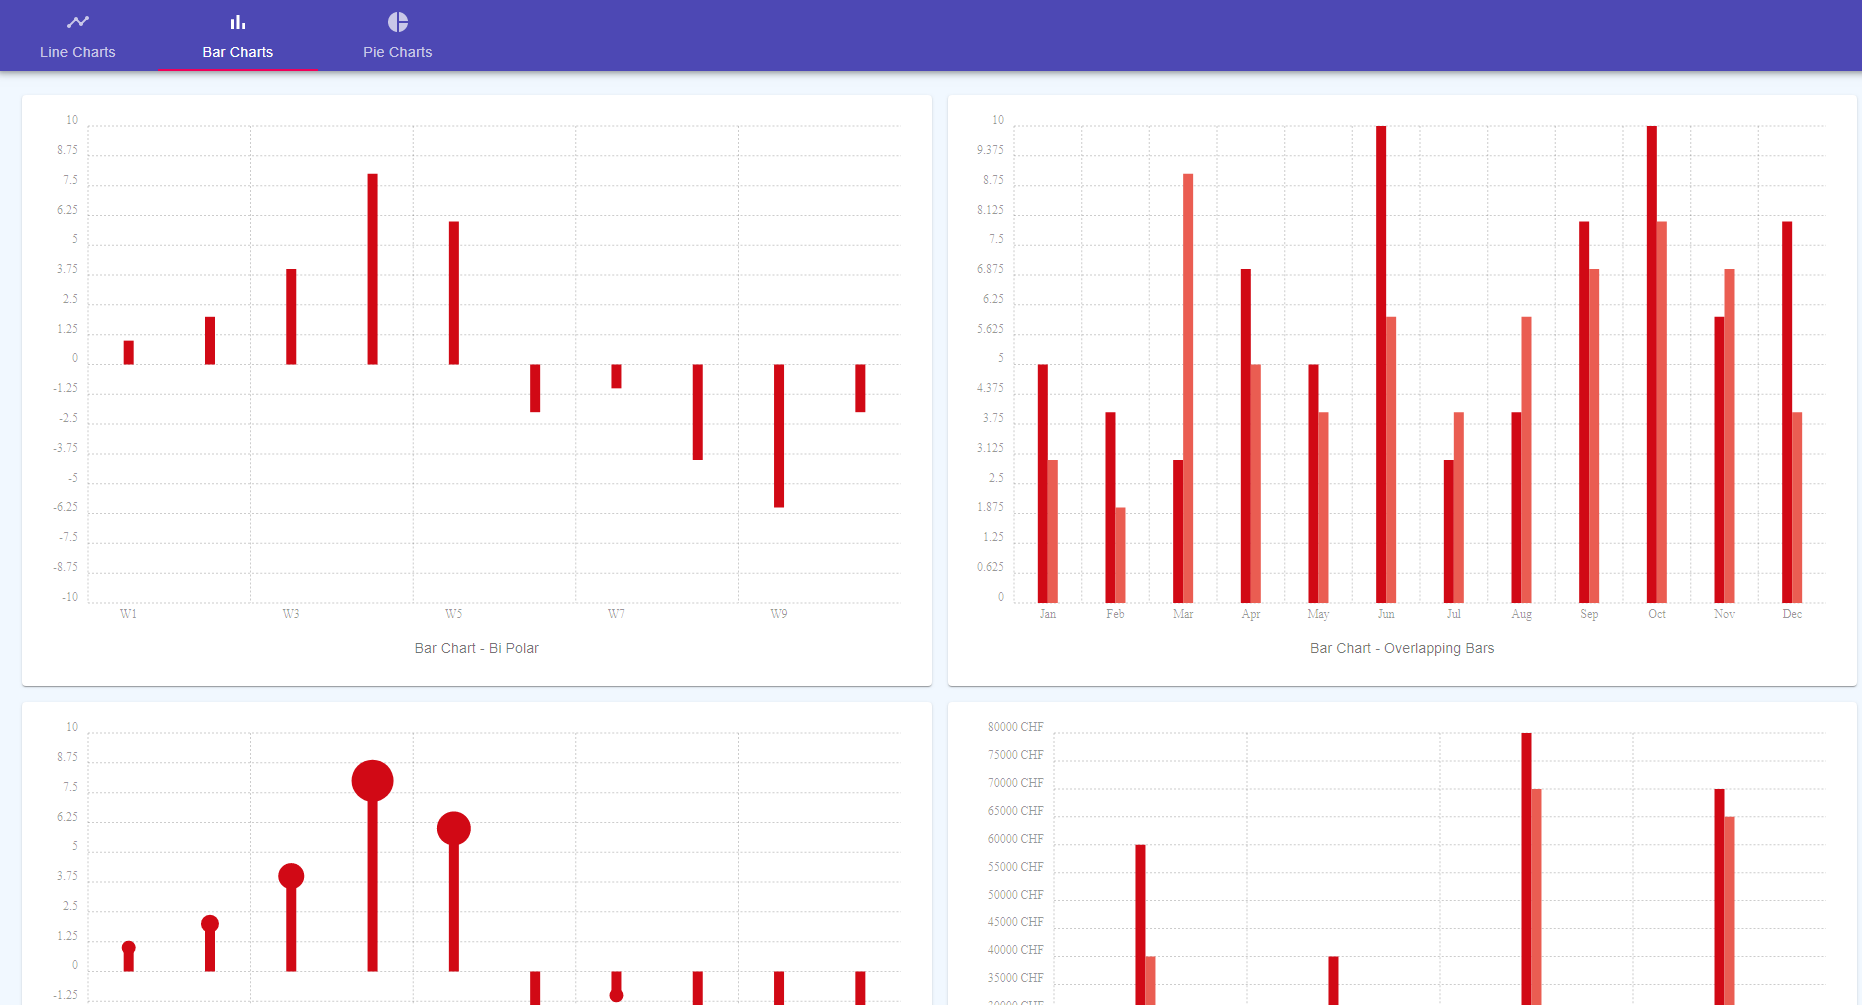
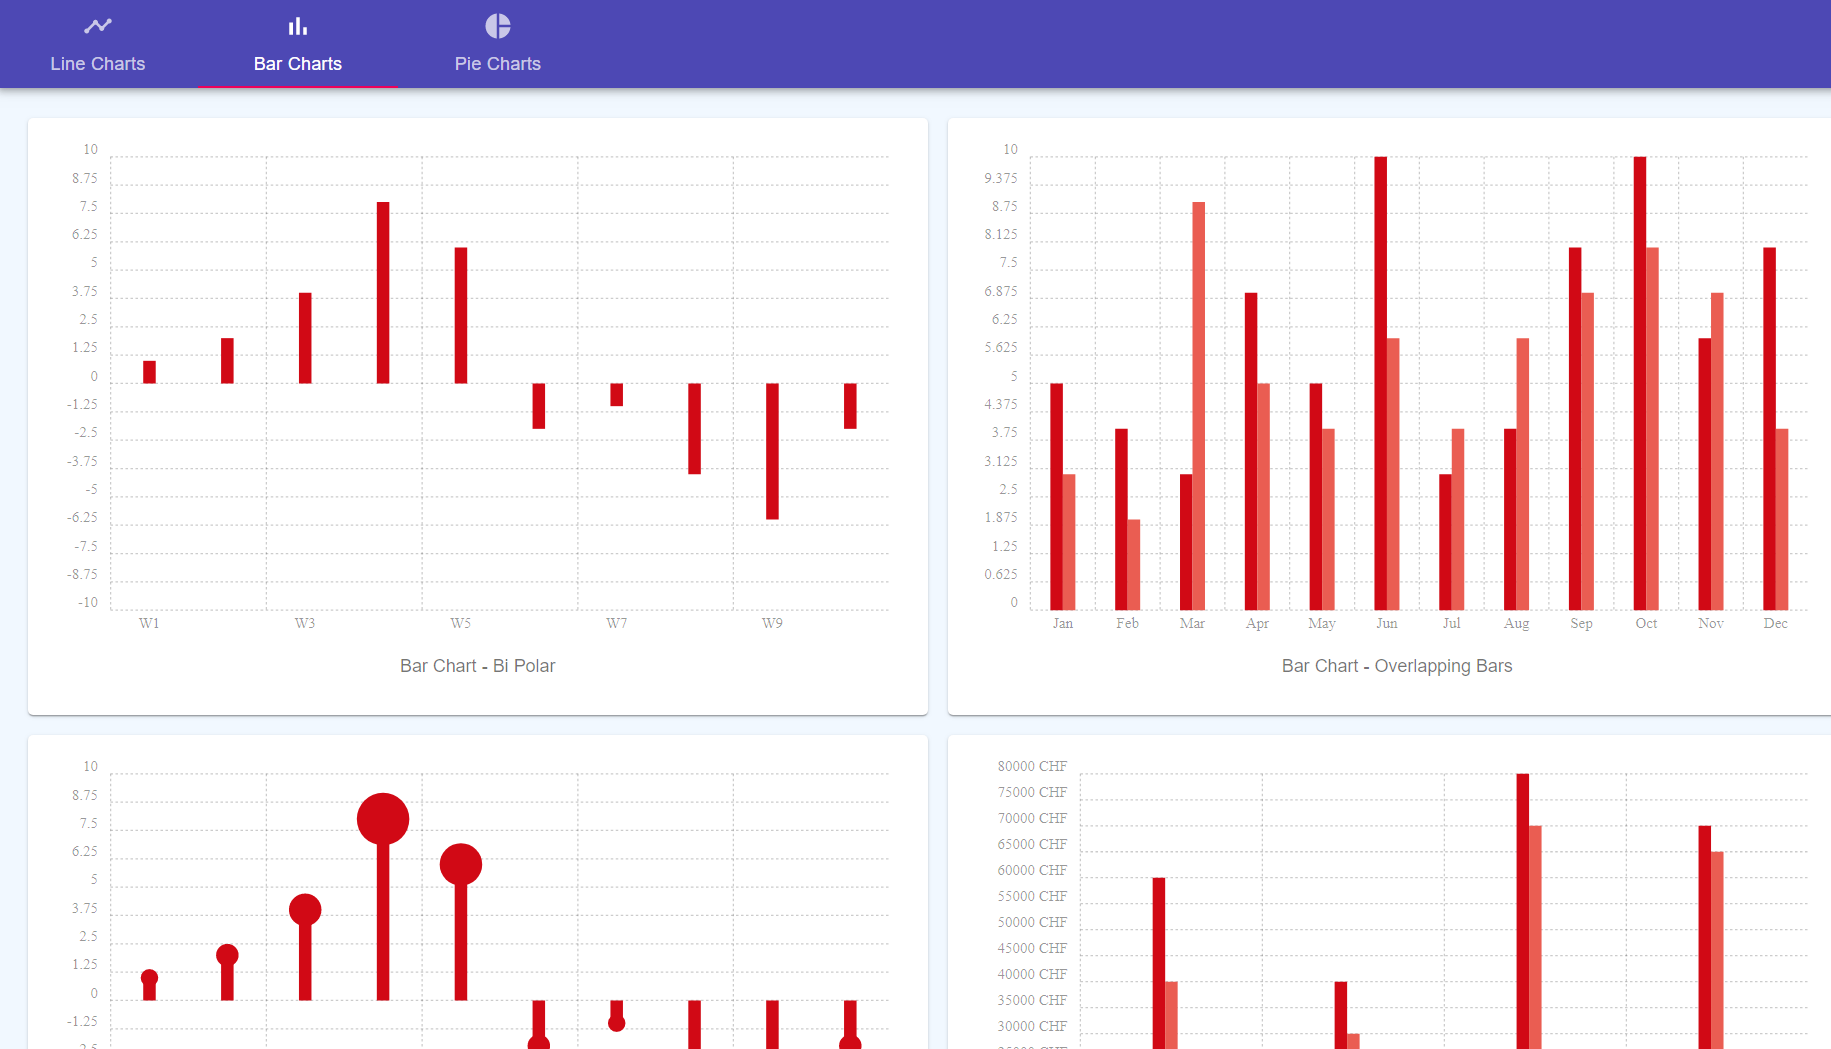
Change Grid for better mobile support

diff --git a/src/features/charts/ChartsCategory.js b/src/features/charts/ChartsCategory.js
@@ -19,7 +19,7 @@ const ChartsCategory = (props) => {
     <div className={classes.root}>
       <Grid container spacing={2}>
         {chartsConfig.map((chart) => (
-          <Grid item xs={6} key={chart.title}>
+          <Grid item xs={12} md={6} key={chart.title}>
             <Chart chart={chart} />
           </Grid>
         ))}
